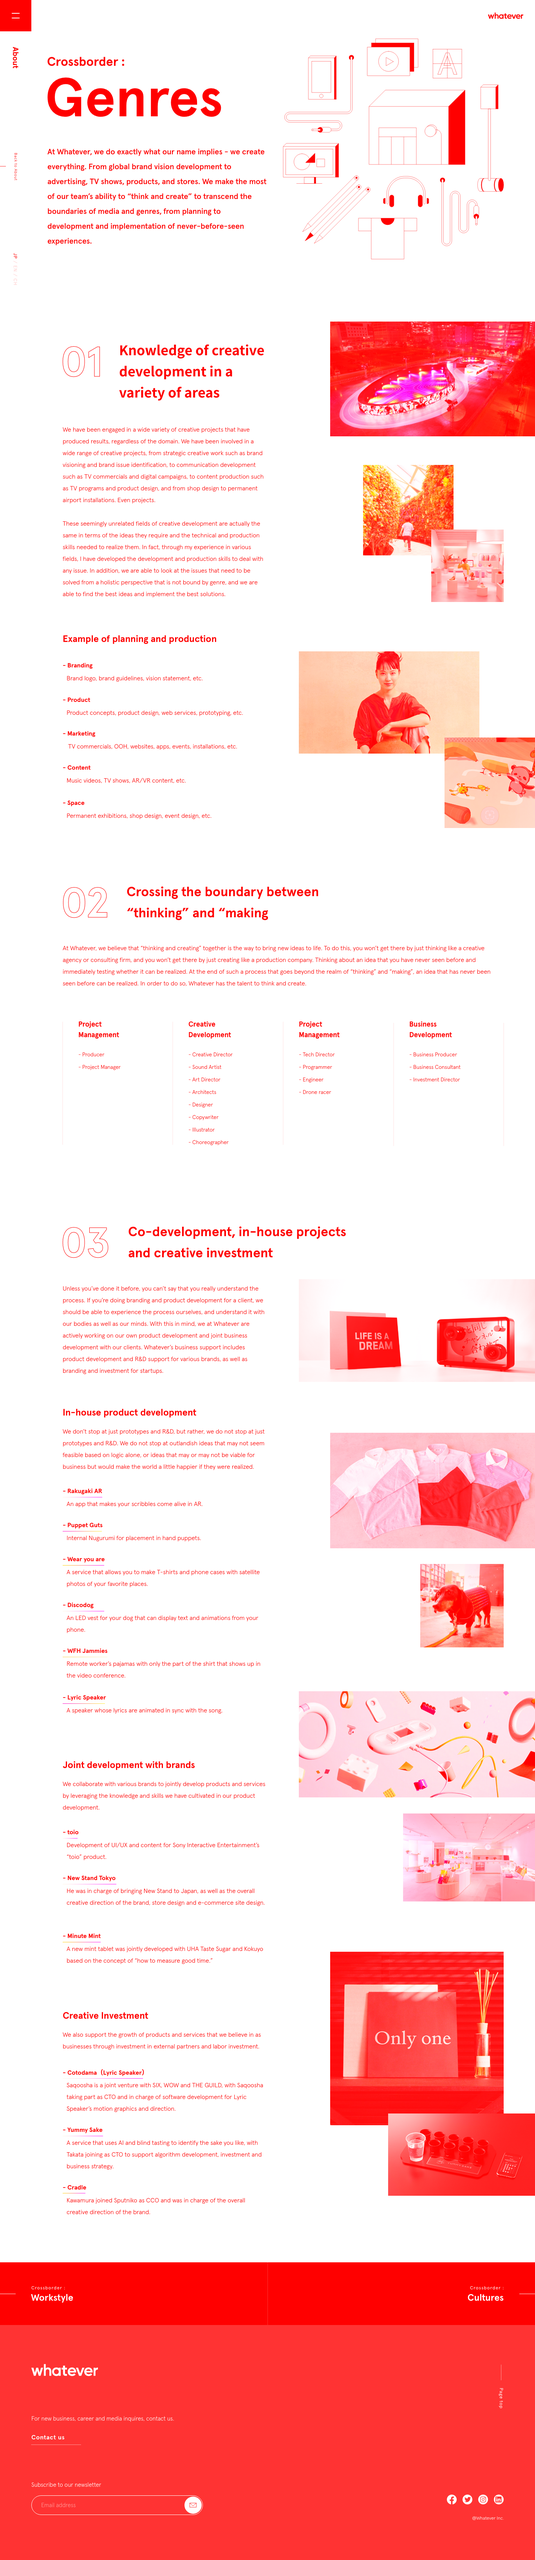
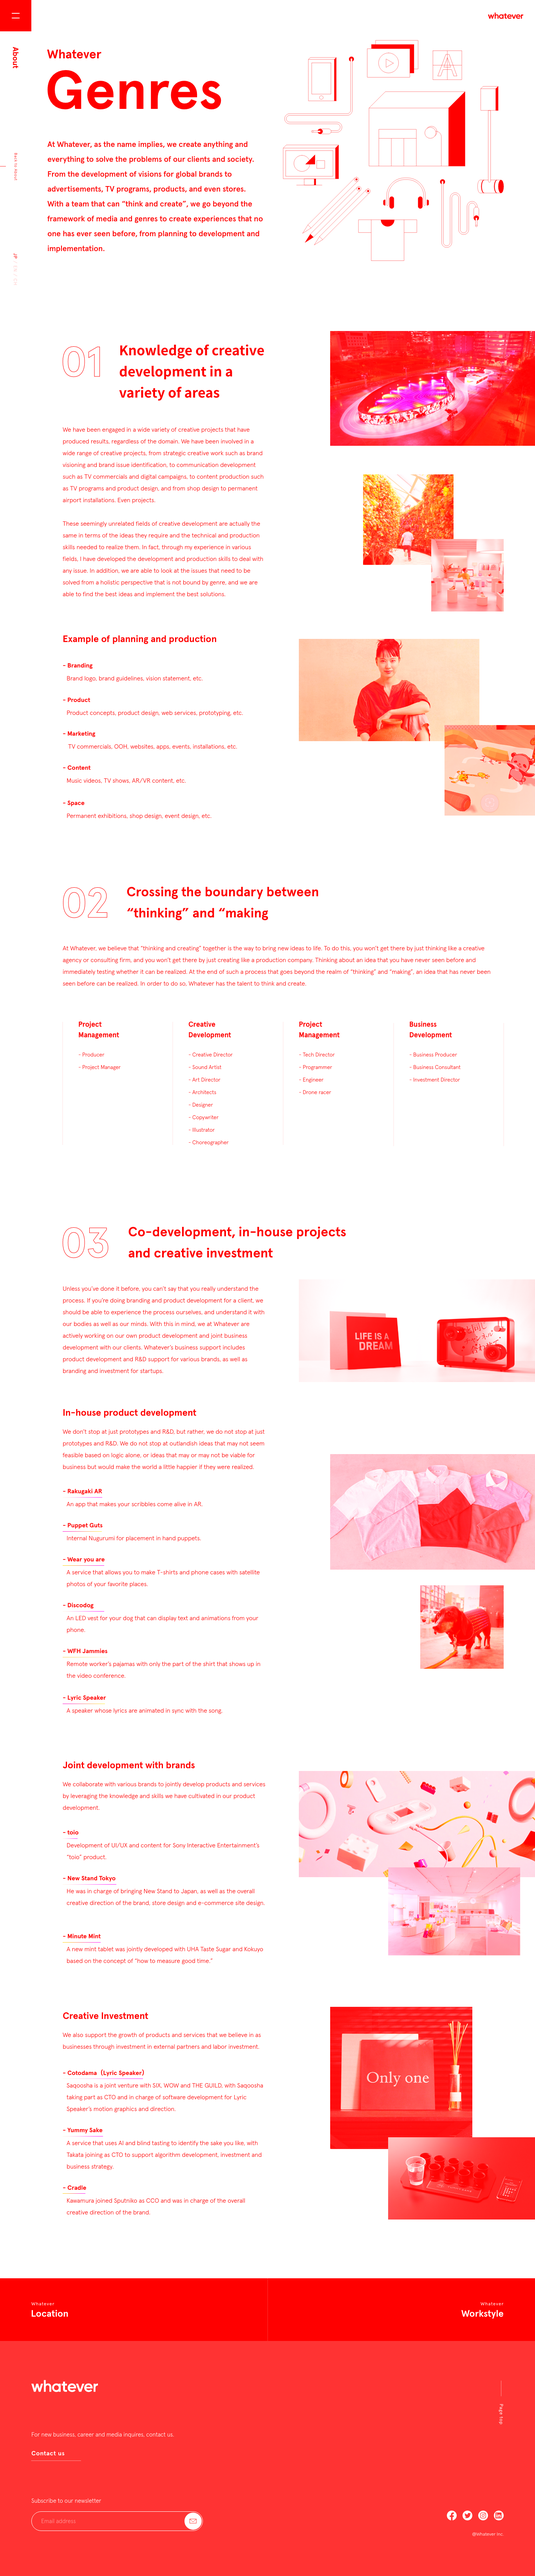
Genres

diff --git a/pages/about/genres.tsx b/pages/about/genres.tsx
@@ -31,7 +31,7 @@ const Section1 = () => (
       .section1
         position relative
         min-height vwpx(1293)
-        margin-top vwpx(159)
+        margin-top vwpx(143)
         margin-left vwpx(80)
         margin-bottom vwpx(88)
       .t
@@ -66,26 +66,28 @@ const Section1 = () => (
       .images img
         position absolute
         &.i1
-          top 0
+          top vwpx(-21)
           right 0
           width vwpx(523)
         &.i2
-          top vwpx(366)
+          top vwpx(345)
           right vwpx(208)
           width vwpx(231)
         &.i3
-          top vwpx(531)
+          top vwpx(510)
           right vwpx(80)
           width vwpx(185)
         &.i4
-          top vwpx(842)
+          top vwpx(762)
           right vwpx(142)
           width vwpx(461)
         &.i5
-          top vwpx(1062)
+          top vwpx(982)
           right 0
           width vwpx(231)
       .en
+        &.section1
+          margin-top vwpx(147)
         .t
           margin-top vwpx(52)
           margin-bottom vwpx(88)
@@ -95,6 +97,17 @@ const Section1 = () => (
         ul li
           font-size 1.6rem
           line-height 2em
+        .images img
+          &.i1
+            top vwpx(24)
+          &.i2
+            top vwpx(390)
+          &.i3
+            top vwpx(555)
+          &.i4
+            top vwpx(810)
+          &.i5
+            top vwpx(1030)
     `}</style>
   </div>
 )
@@ -224,11 +237,11 @@ const Products = () => (
         position absolute
         &.i1
           width vwpx(523)
-          top vwpx(36)
+          top vwpx(86)
           right 0
         &.i2
           width vwpx(213)
-          top vwpx(371)
+          top vwpx(421)
           right vwpx(80)
       .en
         &.products
@@ -239,6 +252,11 @@ const Products = () => (
         .t
           font-size 1.6rem
           margin-bottom 40px
+        .images img
+          &.i1
+            top vwpx(117)
+          &.i2
+            top vwpx(452)
     `}</style>
   </div>
 )
@@ -281,12 +299,12 @@ const Brands = () => (
         position absolute
         &.i1
           width vwpx(604)
-          top vwpx(-132)
+          top vwpx(7)
           right 0
         &.i2
           width vwpx(337)
-          top vwpx(180)
-          right 0
+          top vwpx(253)
+          right vwpx(38)
       .en
         &.brands
           margin-bottom vwpx(114)
@@ -296,6 +314,11 @@ const Brands = () => (
         .t
           font-size 1.6rem
           margin-bottom 40px
+        .images img
+          &.i1
+            top vwpx(25)
+          &.i2
+            top vwpx(272)
     `}</style>
   </div>
 )
@@ -322,7 +345,7 @@ const Investment = () => (
       .investment
         position relative
         min-height vwpx(503)
-        margin-bottom vwpx(190)
+        margin-bottom vwpx(170)
         >img
           position absolute
       .text
@@ -337,20 +360,26 @@ const Investment = () => (
       .images img
         position absolute
         &.i1
-          width vwpx(443)
-          top vwpx(-50)
-          right vwpx(80)
+          width vwpx(363)
+          top vwpx(-20)
+          right vwpx(160)
         &.i2
           width vwpx(375)
-          top vwpx(363)
+          top vwpx(313)
           right 0
       .en
         &.investment
           min-height vwpx(503)
+          margin-bottom vwpx(153)
         h2
           font-size vwpx(24)
         .t
           font-size 1.6rem
+        .images img
+          &.i1
+            top vwpx(-12)
+          &.i2
+            top vwpx(321)
     `}</style>
   </div>
 )
@@ -397,7 +426,7 @@ const Section3 = () => (
 const GenrePage = () => (
   <Layout title="About" side="About" backto="/about" footer={<Footer left="Workstyle" right="Cultures" />}>
     <div className="container">
-      <Header title="Genres" subtitle={t('genres_title')!} desc={t('genres_description')!} image="/about/genres/head@2x.png" />
+      <Header title="Genres" subtitle={t('genres_title')!} desc={t('genres_description')!} image="/about/pict01.svg" iy={{ en: -21 }} />
       <Section1 />
       <Section2 />
       <Section3 />

diff --git a/components/About.tsx b/components/About.tsx
@@ -18,7 +18,7 @@ export const Header = ({ title, subtitle, desc, image, ty, iy }: HeaderProps) =>
   return (
     <div className={langStyle('header')}>
       <div className="text" style={{ marginTop: `calc((100vw - 80px) * ${(ty && ty[locale] ? ty[locale] : 0) / (1366 - 80)})` }}>
-        <Grad><div className="t1">Crossborder :</div></Grad>
+        <Grad><div className="t1">Whatever</div></Grad>
         <Grad><div className="t2">{title}</div></Grad>
         {subtitle != '-' ? <Grad><div className="t3" >{subtitle}</div></Grad> : null}
         <div className="t4"><Grad><div dangerouslySetInnerHTML={{ __html: desc.replace(/\n/g, '<br />') }} /></Grad></div>
@@ -27,49 +27,49 @@ export const Header = ({ title, subtitle, desc, image, ty, iy }: HeaderProps) =>
         <img src={image} alt="" />
       </div>
       <style jsx>{`
-      vwpx(px)
-        'calc((100vw - 80px) * %s)' % (px / (1366 - 80))
-      .header
-        display flex
-        justify-content space-between
-        font-size 0
-        margin 0
-        margin-top vwpx(40)
-        margin-left vwpx(40)
-      .text
-        width vwpx(562)
-      .t1
-        display inline-block
-        margin-bottom vwpx(12)
-        font-size vwpx(32)
-        font-weight bold
-      .t2
-        display inline-block
-        margin-left vwpx(-5)
-        margin-bottom vwpx(42)
-        font-size vwpx(140)
-        font-weight bold
-      .t3
-        display inline-block
-        margin-bottom vwpx(40)
-        font-size vwpx(30)
-        font-weight bold
-      .t4
-        font-size vwpx(18)
-        font-weight bold
-        line-height 2.15em
-      .image
-        img
-          width vwpx(564)
-          margin-right vwpx(80)
-      .en
-        &.header
-          margin-top vwpx(63)
+        vwpx(px)
+          'calc((100vw - 80px) * %s)' % (px / (1366 - 80))
+        .header
+          display flex
+          justify-content space-between
+          font-size 0
+          margin 0
+          margin-top vwpx(22)
+          margin-left vwpx(40)
+        .text
+          width vwpx(562)
+        .t1
+          display inline-block
+          margin-bottom vwpx(12)
+          font-size vwpx(32)
+          font-weight bold
+        .t2
+          display inline-block
+          margin-left vwpx(-5)
+          margin-bottom vwpx(42)
+          font-size vwpx(140)
+          font-weight bold
+        .t3
+          display inline-block
+          margin-bottom vwpx(40)
+          font-size vwpx(30)
+          font-weight bold
         .t4
-          font-size vwpx(20)
-          font-weight normal
-          line-height 1.9em
-    `}</style>
+          font-size vwpx(18)
+          font-weight bold
+          line-height 2.15em
+        .image
+          img
+            width vwpx(564)
+            margin-right vwpx(80)
+        .en
+          &.header
+            margin-top vwpx(44)
+          .t4
+            font-size vwpx(20)
+            font-weight normal
+            line-height 1.9em
+      `}</style>
     </div>
   )
 }

diff --git a/components/Layout.tsx b/components/Layout.tsx
@@ -20,7 +20,7 @@ type Props = {
 const Layout = ({ children, footer, title = '', side = '', backto = '', showHeader = true }: Props) => {
   const templateStyle: { [prop: string]: string } = {}
   if (useTemplate) {
-    templateStyle.backgroundImage = `url(/_/About_index_${useRouter().locale!}.png)`
+    templateStyle.backgroundImage = `url(/_/About_detail_01_${useRouter().locale!}.png)`
   }
   return (
     <div>
